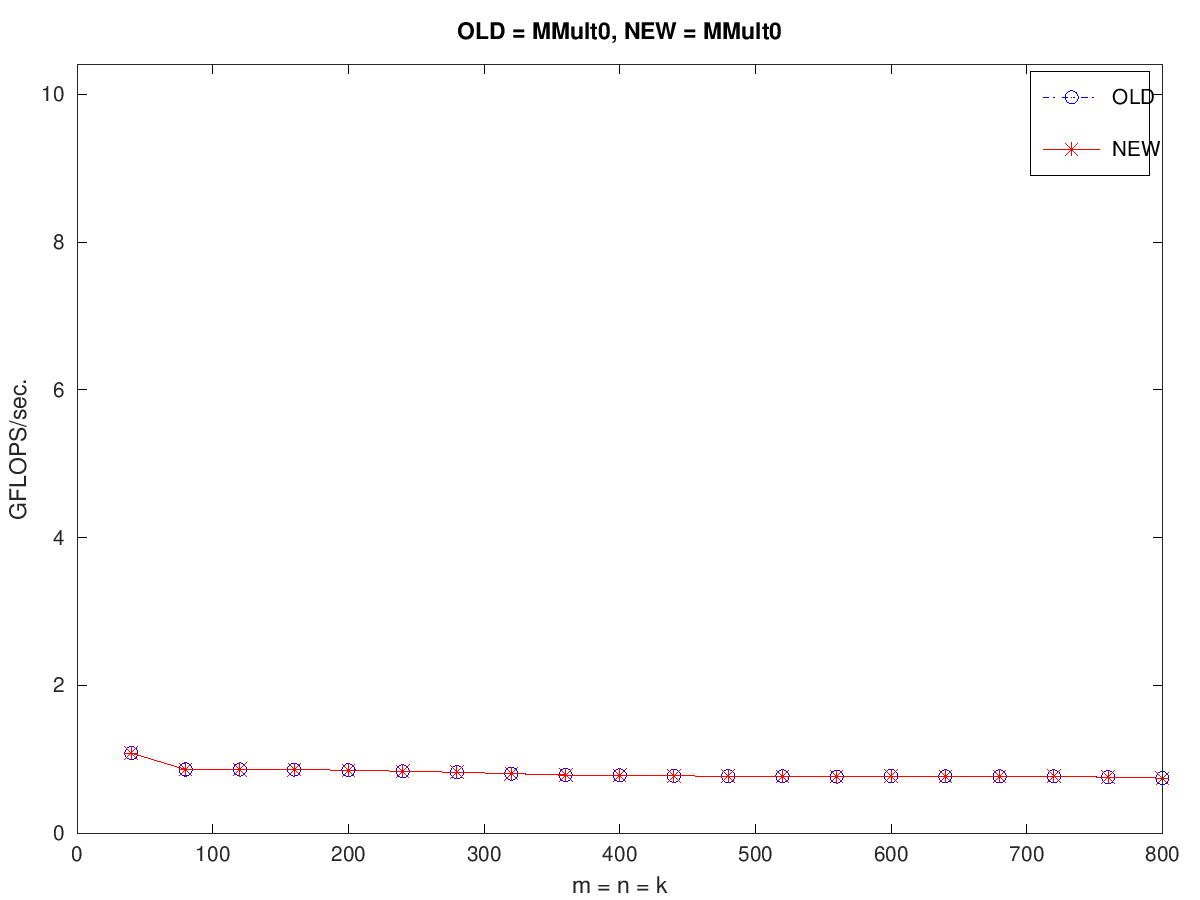
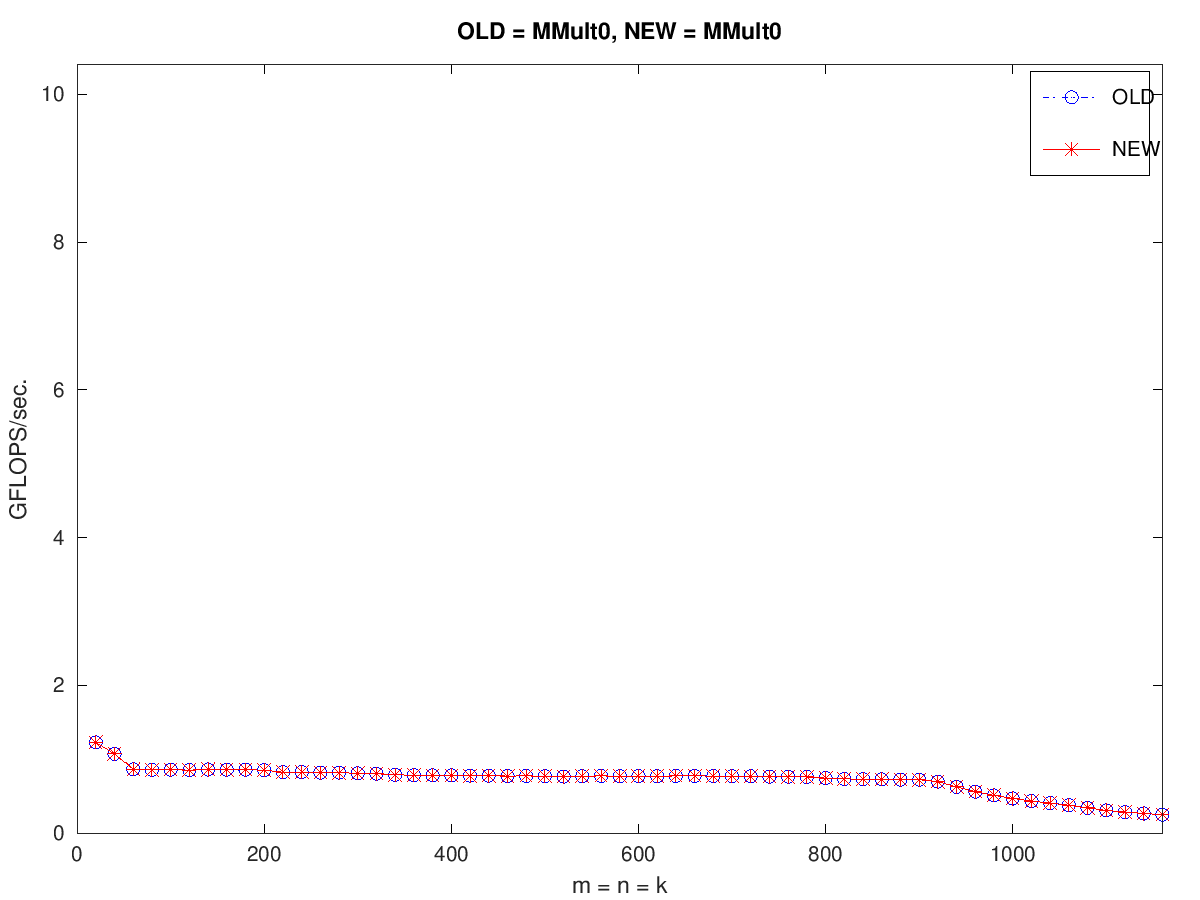
commit forth

diff --git a/src/output_new.m b/src/output_new.m
@@ -1,23 +1,61 @@
-version = 'MMult1x2_3';
+version = 'MMult0';
 MY_MMult = [
-40 1.094017e+00 0.000000e+00 
-80 8.663283e-01 0.000000e+00 
-120 8.631369e-01 0.000000e+00 
-160 8.660535e-01 0.000000e+00 
-200 8.596604e-01 0.000000e+00 
-240 8.540978e-01 0.000000e+00 
-280 8.395128e-01 0.000000e+00 
-320 8.396884e-01 0.000000e+00 
-360 8.268749e-01 0.000000e+00 
-400 8.400604e-01 0.000000e+00 
-440 8.388793e-01 0.000000e+00 
-480 8.375009e-01 0.000000e+00 
-520 8.353563e-01 0.000000e+00 
-560 8.383646e-01 0.000000e+00 
-600 8.315864e-01 0.000000e+00 
-640 8.278393e-01 0.000000e+00 
-680 8.031941e-01 0.000000e+00 
-720 7.780652e-01 0.000000e+00 
-760 7.737387e-01 0.000000e+00 
-800 7.664045e-01 0.000000e+00 
+20 1.230769e+00 0.000000e+00 
+40 1.075630e+00 0.000000e+00 
+60 8.674699e-01 0.000000e+00 
+80 8.583403e-01 0.000000e+00 
+100 8.613264e-01 0.000000e+00 
+120 8.548108e-01 0.000000e+00 
+140 8.633003e-01 0.000000e+00 
+160 8.616809e-01 0.000000e+00 
+180 8.618295e-01 0.000000e+00 
+200 8.541533e-01 0.000000e+00 
+220 8.266439e-01 0.000000e+00 
+240 8.287521e-01 0.000000e+00 
+260 8.223652e-01 0.000000e+00 
+280 8.211267e-01 0.000000e+00 
+300 8.118592e-01 0.000000e+00 
+320 8.061802e-01 0.000000e+00 
+340 7.923634e-01 0.000000e+00 
+360 7.867327e-01 0.000000e+00 
+380 7.855016e-01 0.000000e+00 
+400 7.836895e-01 0.000000e+00 
+420 7.807160e-01 0.000000e+00 
+440 7.805522e-01 0.000000e+00 
+460 7.756166e-01 0.000000e+00 
+480 7.762313e-01 0.000000e+00 
+500 7.739938e-01 0.000000e+00 
+520 7.686101e-01 0.000000e+00 
+540 7.734045e-01 0.000000e+00 
+560 7.760078e-01 0.000000e+00 
+580 7.735219e-01 0.000000e+00 
+600 7.758244e-01 0.000000e+00 
+620 7.726934e-01 0.000000e+00 
+640 7.772803e-01 0.000000e+00 
+660 7.770624e-01 0.000000e+00 
+680 7.746548e-01 0.000000e+00 
+700 7.732871e-01 0.000000e+00 
+720 7.720229e-01 0.000000e+00 
+740 7.671036e-01 0.000000e+00 
+760 7.667013e-01 0.000000e+00 
+780 7.623331e-01 0.000000e+00 
+800 7.469932e-01 0.000000e+00 
+820 7.362263e-01 0.000000e+00 
+840 7.348137e-01 0.000000e+00 
+860 7.307813e-01 0.000000e+00 
+880 7.275064e-01 0.000000e+00 
+900 7.255518e-01 0.000000e+00 
+920 7.010587e-01 0.000000e+00 
+940 6.289223e-01 0.000000e+00 
+960 5.632899e-01 0.000000e+00 
+980 5.134775e-01 0.000000e+00 
+1000 4.724701e-01 0.000000e+00 
+1020 4.374672e-01 0.000000e+00 
+1040 4.099989e-01 0.000000e+00 
+1060 3.805551e-01 0.000000e+00 
+1080 3.438542e-01 0.000000e+00 
+1100 3.095067e-01 0.000000e+00 
+1120 2.874866e-01 0.000000e+00 
+1140 2.687877e-01 0.000000e+00 
+1160 2.528052e-01 0.000000e+00 
 ];

diff --git a/src/output_old.m b/src/output_old.m
@@ -1,23 +1,61 @@
-version = 'MMult2';
+version = 'MMult0';
 MY_MMult = [
-40 1.094017e+00 0.000000e+00 
-80 8.540450e-01 0.000000e+00 
-120 8.545994e-01 0.000000e+00 
-160 8.658704e-01 0.000000e+00 
-200 8.626267e-01 0.000000e+00 
-240 8.501584e-01 0.000000e+00 
-280 8.389513e-01 0.000000e+00 
-320 8.328060e-01 0.000000e+00 
-360 8.351936e-01 0.000000e+00 
-400 8.403527e-01 0.000000e+00 
-440 8.316679e-01 0.000000e+00 
-480 8.355678e-01 0.000000e+00 
-520 8.372015e-01 0.000000e+00 
-560 8.349506e-01 0.000000e+00 
-600 8.277797e-01 0.000000e+00 
-640 8.243924e-01 0.000000e+00 
-680 7.980163e-01 0.000000e+00 
-720 7.806200e-01 0.000000e+00 
-760 7.626215e-01 0.000000e+00 
-800 7.465510e-01 0.000000e+00 
+20 1.230769e+00 0.000000e+00 
+40 1.075630e+00 0.000000e+00 
+60 8.674699e-01 0.000000e+00 
+80 8.583403e-01 0.000000e+00 
+100 8.613264e-01 0.000000e+00 
+120 8.548108e-01 0.000000e+00 
+140 8.633003e-01 0.000000e+00 
+160 8.616809e-01 0.000000e+00 
+180 8.618295e-01 0.000000e+00 
+200 8.541533e-01 0.000000e+00 
+220 8.266439e-01 0.000000e+00 
+240 8.287521e-01 0.000000e+00 
+260 8.223652e-01 0.000000e+00 
+280 8.211267e-01 0.000000e+00 
+300 8.118592e-01 0.000000e+00 
+320 8.061802e-01 0.000000e+00 
+340 7.923634e-01 0.000000e+00 
+360 7.867327e-01 0.000000e+00 
+380 7.855016e-01 0.000000e+00 
+400 7.836895e-01 0.000000e+00 
+420 7.807160e-01 0.000000e+00 
+440 7.805522e-01 0.000000e+00 
+460 7.756166e-01 0.000000e+00 
+480 7.762313e-01 0.000000e+00 
+500 7.739938e-01 0.000000e+00 
+520 7.686101e-01 0.000000e+00 
+540 7.734045e-01 0.000000e+00 
+560 7.760078e-01 0.000000e+00 
+580 7.735219e-01 0.000000e+00 
+600 7.758244e-01 0.000000e+00 
+620 7.726934e-01 0.000000e+00 
+640 7.772803e-01 0.000000e+00 
+660 7.770624e-01 0.000000e+00 
+680 7.746548e-01 0.000000e+00 
+700 7.732871e-01 0.000000e+00 
+720 7.720229e-01 0.000000e+00 
+740 7.671036e-01 0.000000e+00 
+760 7.667013e-01 0.000000e+00 
+780 7.623331e-01 0.000000e+00 
+800 7.469932e-01 0.000000e+00 
+820 7.362263e-01 0.000000e+00 
+840 7.348137e-01 0.000000e+00 
+860 7.307813e-01 0.000000e+00 
+880 7.275064e-01 0.000000e+00 
+900 7.255518e-01 0.000000e+00 
+920 7.010587e-01 0.000000e+00 
+940 6.289223e-01 0.000000e+00 
+960 5.632899e-01 0.000000e+00 
+980 5.134775e-01 0.000000e+00 
+1000 4.724701e-01 0.000000e+00 
+1020 4.374672e-01 0.000000e+00 
+1040 4.099989e-01 0.000000e+00 
+1060 3.805551e-01 0.000000e+00 
+1080 3.438542e-01 0.000000e+00 
+1100 3.095067e-01 0.000000e+00 
+1120 2.874866e-01 0.000000e+00 
+1140 2.687877e-01 0.000000e+00 
+1160 2.528052e-01 0.000000e+00 
 ];

diff --git a/src/output_MMult0.m b/src/output_MMult0.m
@@ -1,23 +1,61 @@
 version = 'MMult0';
 MY_MMult = [
-40 1.084746e+00 0.000000e+00 
-80 8.641350e-01 0.000000e+00 
-120 8.633525e-01 0.000000e+00 
-160 8.618622e-01 0.000000e+00 
-200 8.537887e-01 0.000000e+00 
-240 8.393188e-01 0.000000e+00 
-280 8.265994e-01 0.000000e+00 
-320 8.073223e-01 0.000000e+00 
-360 7.889344e-01 0.000000e+00 
-400 7.854736e-01 0.000000e+00 
-440 7.780782e-01 0.000000e+00 
-480 7.720129e-01 0.000000e+00 
-520 7.722850e-01 0.000000e+00 
-560 7.674954e-01 0.000000e+00 
-600 7.748170e-01 0.000000e+00 
-640 7.711331e-01 0.000000e+00 
-680 7.713406e-01 0.000000e+00 
-720 7.703324e-01 0.000000e+00 
-760 7.591234e-01 0.000000e+00 
-800 7.463437e-01 0.000000e+00 
+20 1.230769e+00 0.000000e+00 
+40 1.075630e+00 0.000000e+00 
+60 8.674699e-01 0.000000e+00 
+80 8.583403e-01 0.000000e+00 
+100 8.613264e-01 0.000000e+00 
+120 8.548108e-01 0.000000e+00 
+140 8.633003e-01 0.000000e+00 
+160 8.616809e-01 0.000000e+00 
+180 8.618295e-01 0.000000e+00 
+200 8.541533e-01 0.000000e+00 
+220 8.266439e-01 0.000000e+00 
+240 8.287521e-01 0.000000e+00 
+260 8.223652e-01 0.000000e+00 
+280 8.211267e-01 0.000000e+00 
+300 8.118592e-01 0.000000e+00 
+320 8.061802e-01 0.000000e+00 
+340 7.923634e-01 0.000000e+00 
+360 7.867327e-01 0.000000e+00 
+380 7.855016e-01 0.000000e+00 
+400 7.836895e-01 0.000000e+00 
+420 7.807160e-01 0.000000e+00 
+440 7.805522e-01 0.000000e+00 
+460 7.756166e-01 0.000000e+00 
+480 7.762313e-01 0.000000e+00 
+500 7.739938e-01 0.000000e+00 
+520 7.686101e-01 0.000000e+00 
+540 7.734045e-01 0.000000e+00 
+560 7.760078e-01 0.000000e+00 
+580 7.735219e-01 0.000000e+00 
+600 7.758244e-01 0.000000e+00 
+620 7.726934e-01 0.000000e+00 
+640 7.772803e-01 0.000000e+00 
+660 7.770624e-01 0.000000e+00 
+680 7.746548e-01 0.000000e+00 
+700 7.732871e-01 0.000000e+00 
+720 7.720229e-01 0.000000e+00 
+740 7.671036e-01 0.000000e+00 
+760 7.667013e-01 0.000000e+00 
+780 7.623331e-01 0.000000e+00 
+800 7.469932e-01 0.000000e+00 
+820 7.362263e-01 0.000000e+00 
+840 7.348137e-01 0.000000e+00 
+860 7.307813e-01 0.000000e+00 
+880 7.275064e-01 0.000000e+00 
+900 7.255518e-01 0.000000e+00 
+920 7.010587e-01 0.000000e+00 
+940 6.289223e-01 0.000000e+00 
+960 5.632899e-01 0.000000e+00 
+980 5.134775e-01 0.000000e+00 
+1000 4.724701e-01 0.000000e+00 
+1020 4.374672e-01 0.000000e+00 
+1040 4.099989e-01 0.000000e+00 
+1060 3.805551e-01 0.000000e+00 
+1080 3.438542e-01 0.000000e+00 
+1100 3.095067e-01 0.000000e+00 
+1120 2.874866e-01 0.000000e+00 
+1140 2.687877e-01 0.000000e+00 
+1160 2.528052e-01 0.000000e+00 
 ];

diff --git a/MMul/MMult1x2_4.c b/MMul/MMult1x2_4.c
@@ -1,0 +1,29 @@
+#define A(i, j) a[(j) * lda + (i)]
+#define B(i, j) b[(j) * ldb + (i)]
+#define C(i, j) c[(j) * ldc + (i)]
+
+void AddDot1x2(int, double*, int, double*, int, double*, int);
+void AddDot(int, double*, int, double*, double*);
+
+void MY_MMult(int m,  int n, int k, double* a, int lda, double* b, int ldb, double* c, int ldc){
+    int i, j;
+    for(j = 0; j < n; j += 2){
+        for(i = 0; i < m; i++){
+            AddDot1x2(k, &A(i, 0), lda, &B(0, j), ldb, &C(i, j), ldc);
+        }
+    }
+}
+
+void AddDot1x2(int k, double* a, int lda, double* b, int ldb, double* c, int ldc){
+    AddDot(k, &A(0, 0), lda, &B(0, 0), &C(0, 0));
+    AddDot(k, &A(0, 0), lda, &B(0, 1), &C(0, 1));
+}
+
+#define X(i) x[(i) * incx]
+
+void AddDot(int k, double* x, int incx, double* y, double* gamma){
+    int p;
+    for(p = 0; p < k; p++){
+        *gamma += X(p) * y[p];
+    }
+}

diff --git a/src/parameters.h b/src/parameters.h
@@ -2,9 +2,9 @@
 In the test driver, there is a loop "for ( p=PFIRST; p<= PLAST; p+= PINC )"
 The below parameters set this range of values that p takes on 
 */   
-#define PFIRST 40
-#define PLAST  800
-#define PINC   40
+#define PFIRST 20
+#define PLAST  1160
+#define PINC   20
 
 /* 
 In the test driver, the m, n, and k dimensions are set to the below 
